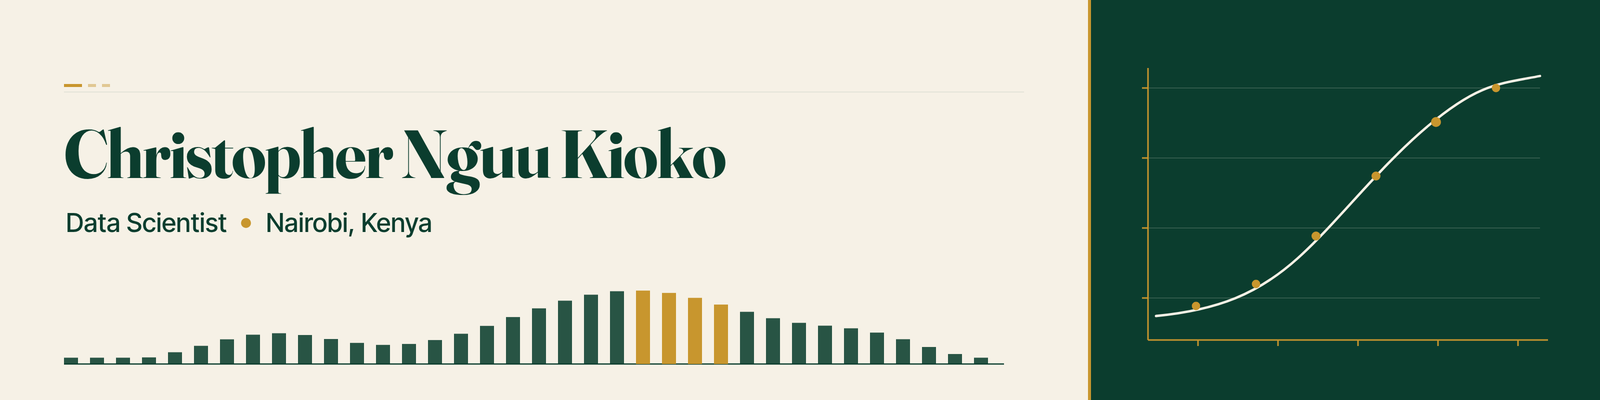
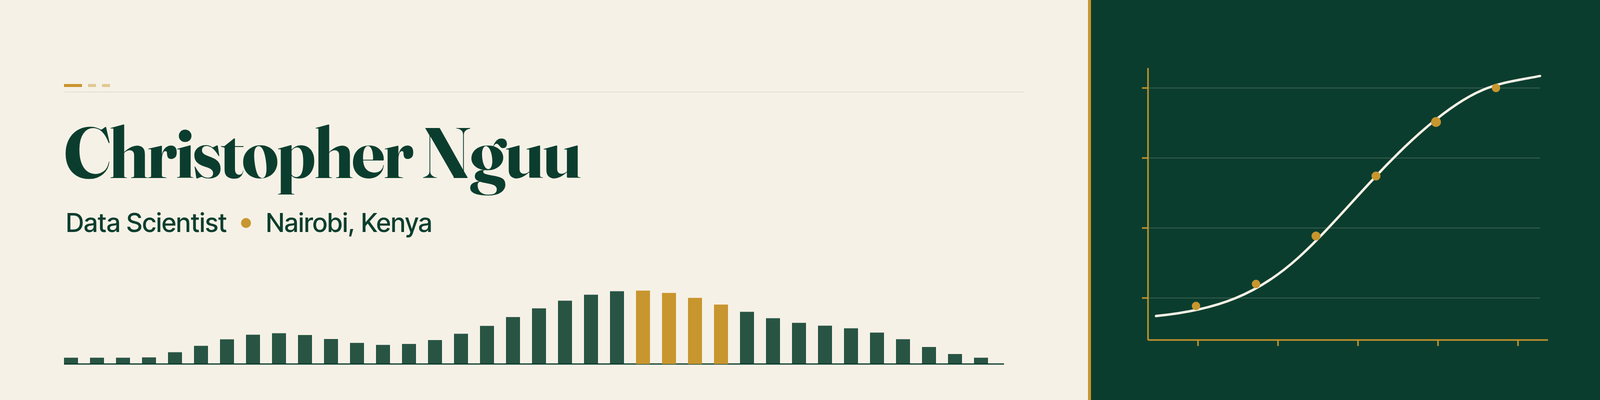
Show the profile name as Christopher Nguu
Drop Kioko from the banner and the README display name. Leave the GitHub username, repo names, and links unchanged.

Changed region(s): [[0.0312, 0.3, 0.4688, 0.51]]

diff --git a/README.md b/README.md
@@ -1,8 +1,8 @@
-<img src="assets/banner.png" alt="Christopher Nguu Kioko, Data Scientist, Nairobi, Kenya" width="100%">
+<img src="assets/banner.png" alt="Christopher Nguu, Data Scientist, Nairobi, Kenya" width="100%">
 
 # Hi, I'm Christopher Nguu 👋
 
-**Christopher Nguu Kioko** · Data Scientist · Nairobi, Kenya
+**Christopher Nguu** · Data Scientist · Nairobi, Kenya
 
 I'm a data scientist in Nairobi doing an MSc in Data Science at Strathmore University. I care most about the part of machine learning that happens after the notebook: leak-free pipelines, one shared preprocessing path for training and serving, honest metrics, and models that send low-confidence predictions to a human. My projects sit on East African problems (mobile-money fraud, telecom customer care, county-level health capacity), and I ship them as working APIs and apps rather than leaving them as slides.
 
